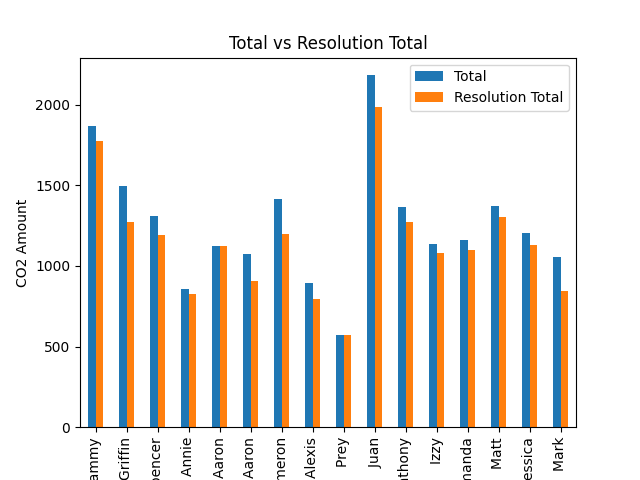
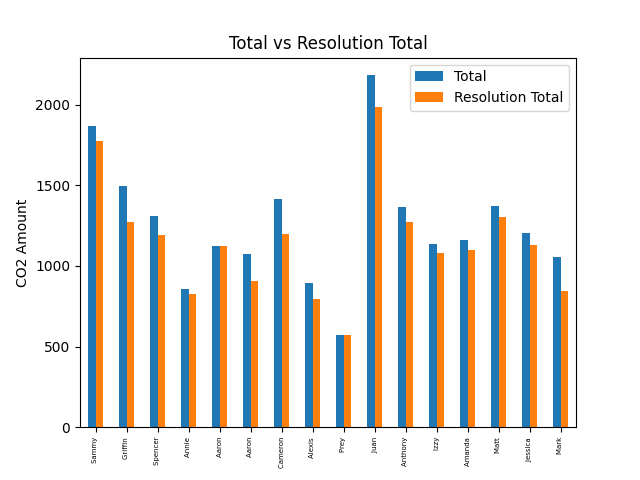
change font size

diff --git a/main.py b/main.py
@@ -171,7 +171,8 @@ ax.set_xticklabels(newDf['Username'])
 
 #plt.show()
 # Save plot
-plt.savefig('allData.png')
+plt.xticks(rotation=90, fontsize=5)
+plt.savefig('allData.png',dpi=300)
 
 totalNewDf = dfmerged[['Username','Total','Resolution Total']]
 
@@ -184,6 +185,7 @@ ax.set_title('Total vs Resolution Total')
 ax.set_xticklabels(totalNewDf['Username'])
 
 #plt.show()
+plt.xticks(rotation=90,fontsize=5)
 plt.savefig('totalData.png')
 
 
